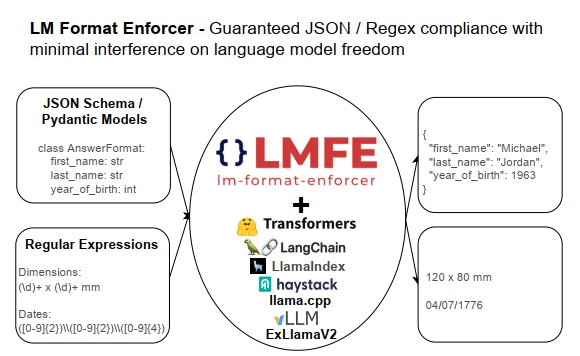
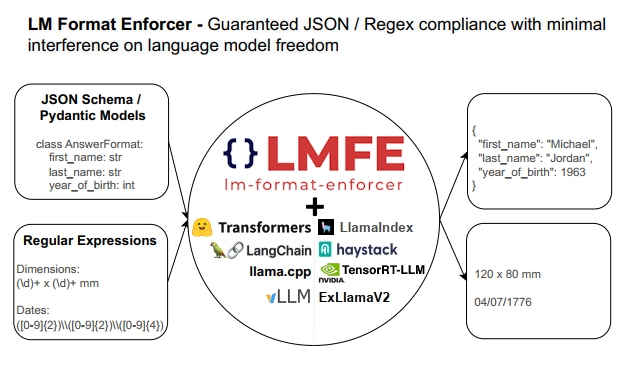
Docs: Preparing 0.9.0

diff --git a/README.md b/README.md
@@ -58,7 +58,7 @@ print(result)
 
 ## Capabilities / Advantages
 
-- Works with any Python language model and tokenizer. Already supports [transformers](https://github.com/huggingface/transformers), [LangChain](https://python.langchain.com/docs/integrations/llms/lmformatenforcer_experimental), [LlamaIndex](https://docs.llamaindex.ai/en/latest/community/integrations/lmformatenforcer.html), [llama.cpp](https://github.com/noamgat/lm-format-enforcer/blob/main/samples/colab_llamacpppython_integration.ipynb), [vLLM](https://github.com/noamgat/lm-format-enforcer/blob/main/samples/colab_vllm_integration.ipynb), [Haystack](https://haystack.deepset.ai/integrations/lmformatenforcer) and [ExLlamaV2](https://github.com/noamgat/lm-format-enforcer/blob/main/samples/colab_exllamav2_integration.ipynb). Can be adapted to others.
+- Works with any Python language model and tokenizer. Already supports [transformers](https://github.com/huggingface/transformers), [LangChain](https://python.langchain.com/docs/integrations/llms/lmformatenforcer_experimental), [LlamaIndex](https://docs.llamaindex.ai/en/latest/community/integrations/lmformatenforcer.html), [llama.cpp](https://github.com/noamgat/lm-format-enforcer/blob/main/samples/colab_llamacpppython_integration.ipynb), [vLLM](https://github.com/noamgat/lm-format-enforcer/blob/main/samples/colab_vllm_integration.ipynb), [Haystack](https://haystack.deepset.ai/integrations/lmformatenforcer), [NVIDIA TensorRT-LLM](https://github.com/noamgat/lm-format-enforcer/blob/main/samples/colab_trtllm_integration.ipynb) and [ExLlamaV2](https://github.com/noamgat/lm-format-enforcer/blob/main/samples/colab_exllamav2_integration.ipynb).
 - Supports batched generation and beam searches - each input / beam can have different tokens filtered at every timestep
 - Supports JSON Schema, JSON Mode (schemaless) and Regular Expression formats
 - Supports both required and optional fields in JSON schemas

diff --git a/CHANGELOG.md b/CHANGELOG.md
@@ -1,5 +1,10 @@
 # LM Format Enforcer Changelog
 
+## v0.9.0
+- [#68](https://github.com/noamgat/lm-format-enforcer/pull/68) Added NVIDIA TensorRT-LLM Support, [Ahmet Erdem](https://github.com/aerdem4)'s contribution.
+- Much faster TokenizerData initialization, new JSON freetext token caching algorithm.
+- More robust error reporting.
+
 ## v0.8.3
 - [#67](https://github.com/noamgat/lm-format-enforcer/issues/67) Updating vLLM integration to support v0.3.0
 - [#63](https://github.com/noamgat/lm-format-enforcer/issues/63) JSONSchemaParser: Empty list cannot be closed after a newline

diff --git a/CONTRIBUTORS.md b/CONTRIBUTORS.md
@@ -5,6 +5,7 @@
 * [Noam Gat](https://github.com/noamgat) (Main Author)
 * [Jarno Elonen](https://github.com/elonen) (Improved performance of length-limited json strings)
 * [Benedikt Fuchs](https://github.com/helpmefindaname) (Bug fixes)
+* [Ahmet Erdem](https://github.com/aerdem4) (NVIDIA TensorRT-LLM support)
 
 ## I would like to join this list. How can I help the project?
 
